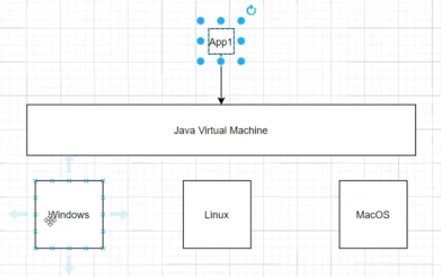
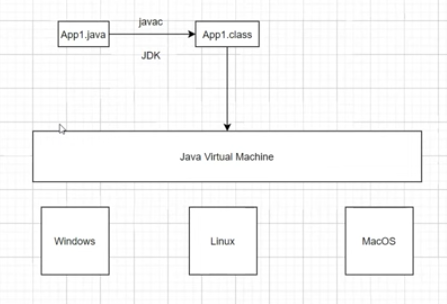
aula 02

diff --git a/aula 02/readme.md b/aula 02/readme.md
@@ -4,4 +4,17 @@
 
 Você faz apenas um código para rodar em todos os sistemas operacionais, como Windows, Linux e MacOS. Isso é possível graças ao sistema de virtualização do Java, a JVM (Java Virtual Machine). 
 
+O roda na JVM não é o "arquivo.java" e sim o "arquivo.class" que é gerado após a compilação (bytecode)
+
+"arquivo.java" --> Arquivo que nós humanos conseguimos ler
+"arquivo.class" --> bytecode que a JVM entende
+
+o comando que usamos para compilar um arquivo ".java" é o "javac" (java compiler).
+
+JDK (Java Developer Kit) --> Possui ferramentas para o desenvolvimento de um software como o javac, debugger e entre outras funcionalidades. O Java possui retrocompatibilidade, ou seja, a versão mais recente consegue rodar as versões anteriores.
+
+JRE (Java Runtime Environment) --> Apenas roda programas ".class"
+
 ![Explicação sobre JVM](img/jvm.png)
+
+Portanto Java é considerado uma linguagem compilada e interpretada!
